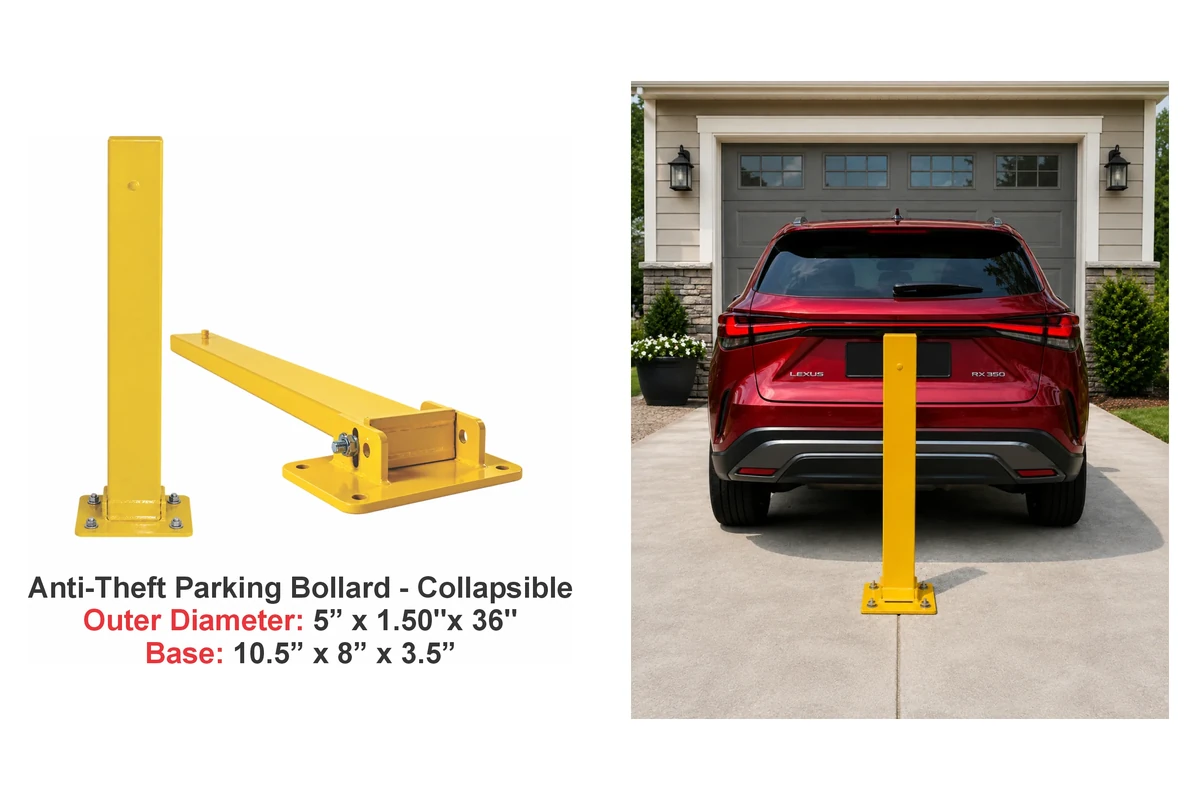
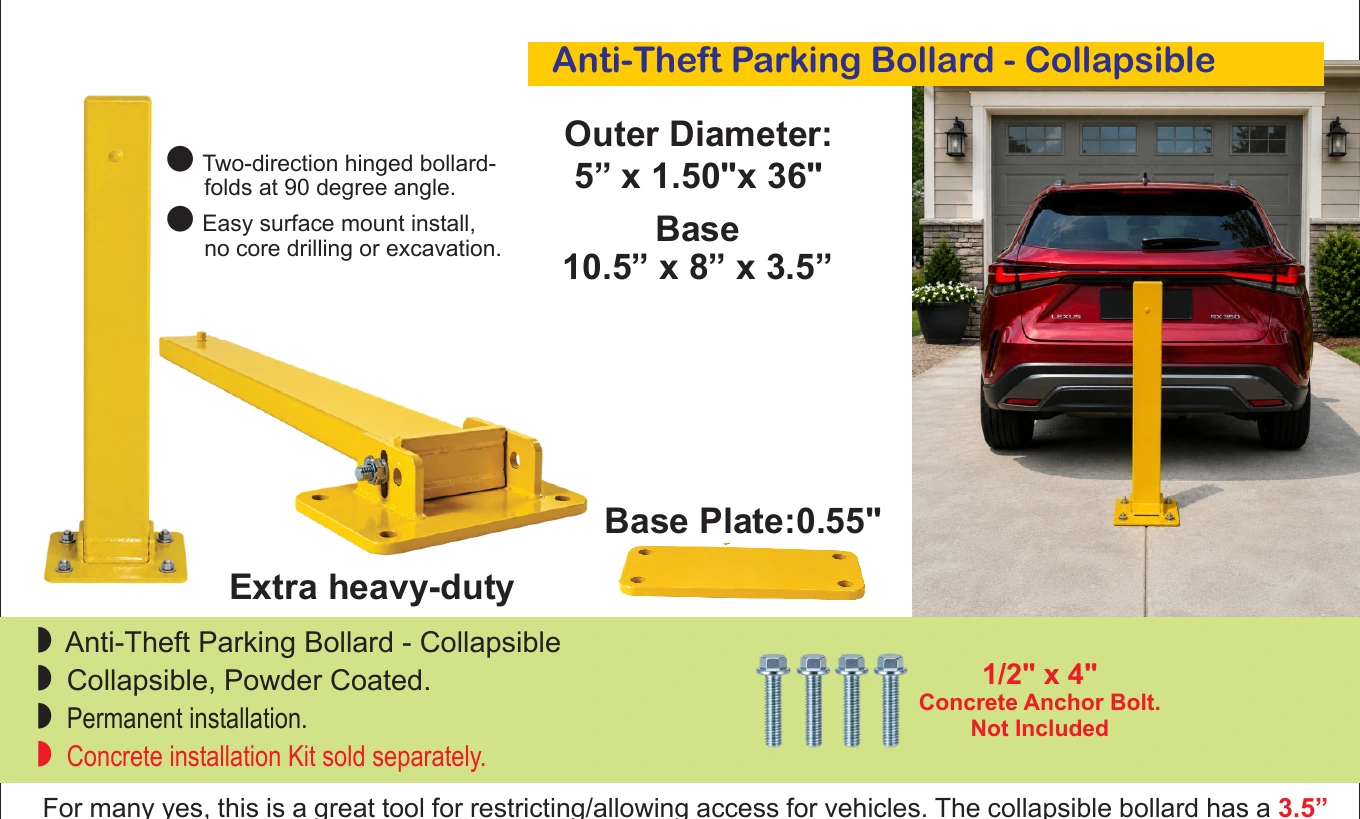
fix: restore original brochure artwork across catalogue

diff --git a/scripts/restore-original-brochure-panels.py b/scripts/restore-original-brochure-panels.py
@@ -1,0 +1,95 @@
+#!/usr/bin/env python3
+"""Restore catalogue panel previews from the supplied original brochure artwork."""
+
+from __future__ import annotations
+
+import subprocess
+import tempfile
+from pathlib import Path
+
+from PIL import Image
+
+
+ROOT = Path(__file__).resolve().parent.parent
+PDFTOPPM = Path(
+    "/Users/udaypatel/.cache/codex-runtimes/codex-primary-runtime/"
+    "dependencies/native/poppler/bin/pdftoppm"
+)
+
+GAS_PAGES = {
+    "pse-20-33-2": 3,
+    "pse-20-33-4": 4,
+    "pse-20-33-6": 5,
+    "pse-100-20-8-18": 6,
+    "pse-33-12": 7,
+    "pse-20-24": 8,
+    "pse-20-12": 9,
+    "pse-33-18": 10,
+    "pse-33-8": 11,
+    "pse-20-18": 12,
+    "pse-33-147-8-4": 13,
+    "pse-147-7-8": 14,
+    "pse-147-7-20": 15,
+    "pse-147-7-16": 16,
+    "pse-al-147-7-16": 17,
+    "pse-fwb": 18,
+    "model-420-1": 19,
+}
+
+SAFETY_SECTIONS = {
+    "heavy-duty-bollard-bolt-down": (3, "top"),
+    "overhead-door-track-protector": (3, "bottom"),
+    "heavy-duty-mid-rail-machine-guard": (4, "top"),
+    "rack-protector": (4, "bottom"),
+    "pallet-rack-guard-end": (5, "top"),
+    "upright-protector": (5, "bottom"),
+    "floor-angle-guard-warehouse": (6, "top"),
+    "anti-theft-parking-bollard-collapsible": (6, "bottom"),
+}
+
+
+def render_page(pdf: Path, page: int, work: Path) -> Image.Image:
+    stem = work / f"{pdf.stem}-{page}"
+    subprocess.run(
+        [str(PDFTOPPM), "-f", str(page), "-singlefile", "-png", "-r", "160", str(pdf), str(stem)],
+        check=True,
+        stdout=subprocess.DEVNULL,
+        stderr=subprocess.DEVNULL,
+    )
+    with Image.open(stem.with_suffix(".png")) as opened:
+        return opened.convert("RGB")
+
+
+def save_panel(image: Image.Image, output: Path) -> None:
+    output.parent.mkdir(parents=True, exist_ok=True)
+    image.save(output, "WEBP", quality=92, method=6)
+
+
+def main() -> None:
+    gas_pdf = ROOT / "public/brochures/prosteel-gas-cage-brochure.pdf"
+    safety_pdf = ROOT / "public/brochures/prosteel-bollard-guard-brochure.pdf"
+
+    with tempfile.TemporaryDirectory(prefix="prosteel-brochures-") as temp:
+        work = Path(temp)
+
+        for slug, page in GAS_PAGES.items():
+            artwork = render_page(gas_pdf, page, work)
+            # Keep the original logo, heading, product artwork, model, and callouts.
+            # Exclude the lower warranty copy because the approved website warranty is one year.
+            crop = artwork.crop((0, 0, artwork.width, round(artwork.height * 0.73)))
+            save_panel(crop, ROOT / f"public/images/catalog/brochures/gas/{slug}-brochure.webp")
+
+        rendered_safety: dict[int, Image.Image] = {}
+        for group, (page, half) in SAFETY_SECTIONS.items():
+            artwork = rendered_safety.setdefault(page, render_page(safety_pdf, page, work))
+            if half == "top":
+                crop = artwork.crop((0, 0, artwork.width, round(artwork.height * 0.455)))
+            else:
+                crop = artwork.crop((0, round(artwork.height * 0.465), artwork.width, round(artwork.height * 0.93)))
+            save_panel(crop, ROOT / f"public/images/catalog/brochures/safety/{group}-brochure.webp")
+
+    print(f"Restored {len(GAS_PAGES) + len(SAFETY_SECTIONS)} original brochure panels.")
+
+
+if __name__ == "__main__":
+    main()
